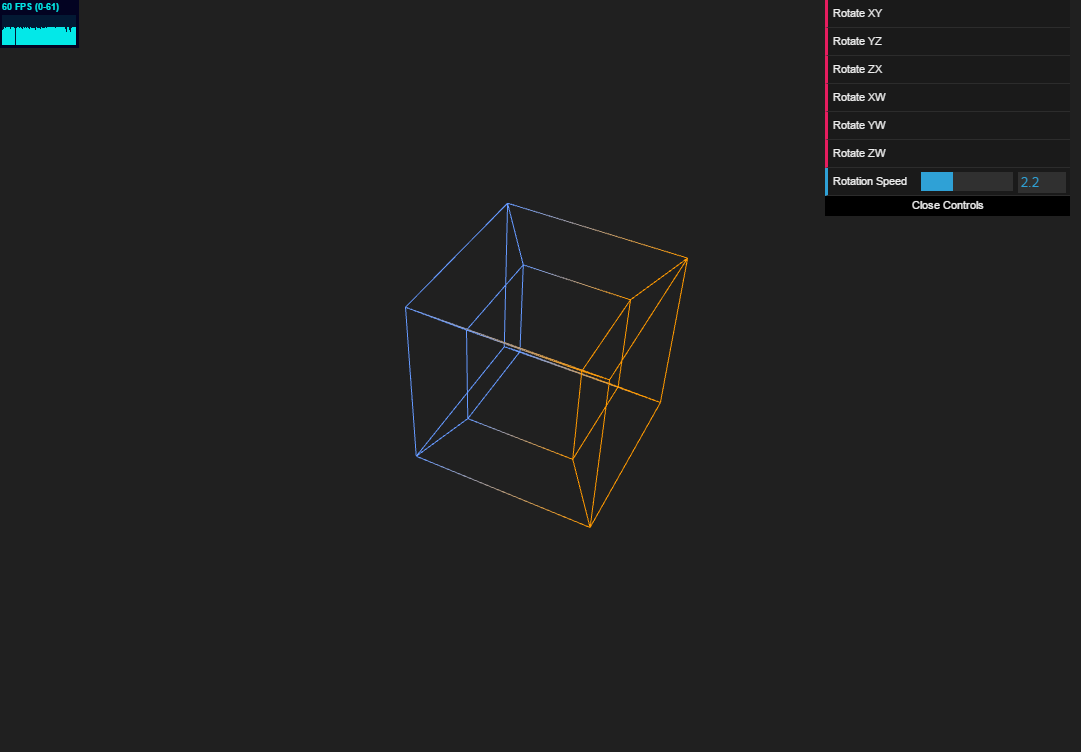
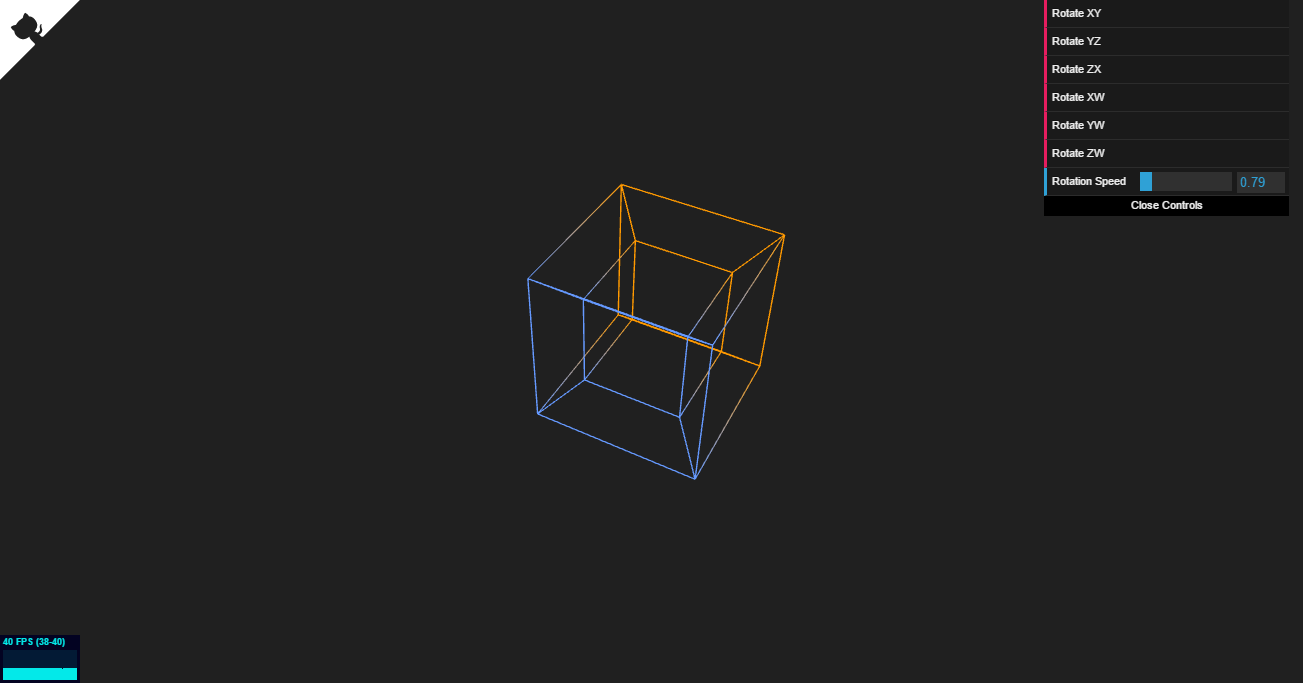
Add GitHub corner

diff --git a/hypercube.js b/hypercube.js
@@ -1,6 +1,6 @@
 'use strict';
 
-function Cube(gl) {
+function Hypercube(gl) {
   var self = this;
   if (!gl)
     throw 'Missing WebGL handle.';
@@ -15,7 +15,7 @@ function Cube(gl) {
   this.model4D = mat4.create();
 
   this.rotationFn = mat4.fromXWRotation;
-  this.rotationSpeed = Math.PI*0.5; // 0.5 turns per second.
+  this.rotationSpeed = 2*Math.PI / 8; // 1 full rotation every 8 seconds.
 
   // Add GUI controller.
   var controls = new function() {
@@ -33,15 +33,15 @@ function Cube(gl) {
   gui.add(controls, 'rotateXW').name('Rotate XW');
   gui.add(controls, 'rotateYW').name('Rotate YW');
   gui.add(controls, 'rotateZW').name('Rotate ZW');
-  gui.add(this, 'rotationSpeed', 0, Math.PI*2).name('Rotation Speed');
+  gui.add(this, 'rotationSpeed', 0, 2*Math.PI).name('Rotation Speed');
 }
 
-Cube.prototype.update = function(deltaSeconds) {
+Hypercube.prototype.update = function(deltaSeconds) {
   this.rotation += deltaSeconds*this.rotationSpeed;
   this.rotationFn(this.model4D, this.rotation);
 };
 
-Cube.prototype.render = function(camera) {
+Hypercube.prototype.render = function(camera) {
   // Set vertex buffer.
   this.gl.bindBuffer(this.gl.ARRAY_BUFFER, this.vertexBuffer);
   this.gl.vertexAttribPointer(this.shaderProgram.vertexPositionAttribute, this.vertexBuffer.itemSize, this.gl.FLOAT, false, 0, 0);
@@ -54,7 +54,7 @@ Cube.prototype.render = function(camera) {
   this.gl.bindBuffer(this.gl.ELEMENT_ARRAY_BUFFER, this.indexBuffer);
 
   // Set shader resources.
-  this.gl.uniform1f(this.shaderProgram.angle, Math.PI*0.25);
+  this.gl.uniform1f(this.shaderProgram.angle, Math.PI/4);
   this.gl.uniform4fv(this.shaderProgram.cameraPosition4D, camera.position4D);
 
   this.gl.uniformMatrix4fv(this.shaderProgram.model4D, false, this.model4D);
@@ -67,7 +67,7 @@ Cube.prototype.render = function(camera) {
   this.gl.drawElements(this.gl.LINES, this.indexBuffer.numItems, this.gl.UNSIGNED_SHORT, 0);
 };
 
-Cube.prototype._initializeBuffers = function() {
+Hypercube.prototype._initializeBuffers = function() {
   var vertices = [
     -1, -1, -1, -1,
     +1, +1, +1, +1,
@@ -169,15 +169,15 @@ Cube.prototype._initializeBuffers = function() {
   this.indexBuffer.numItems = indices.length;
 };
 
-Cube.prototype._initializeShaders = function() {
+Hypercube.prototype._initializeShaders = function() {
   // Build vertex shader.
   this.vertexShader = this.gl.createShader(this.gl.VERTEX_SHADER);
-  this.gl.shaderSource(this.vertexShader, Cube._shaders.vertex);
+  this.gl.shaderSource(this.vertexShader, Hypercube._shaders.vertex);
   this.gl.compileShader(this.vertexShader);
 
   // Build fragment shader.
   this.fragmentShader = this.gl.createShader(this.gl.FRAGMENT_SHADER);
-  this.gl.shaderSource(this.fragmentShader, Cube._shaders.fragment);
+  this.gl.shaderSource(this.fragmentShader, Hypercube._shaders.fragment);
   this.gl.compileShader(this.fragmentShader);
 
   this.shaderProgram = this.gl.createProgram();
@@ -209,7 +209,7 @@ Cube.prototype._initializeShaders = function() {
   return true;
 };
 
-Cube._shaders = {
+Hypercube._shaders = {
   vertex:
     'attribute vec4 aPosition4D; ' +
     'attribute vec4 aColor; ' +

diff --git a/index.html b/index.html
@@ -23,15 +23,18 @@
     Your browser doesn't appear to support the
     <code>&lt;canvas&gt;</code> element.
   </canvas>
+  
+  <!-- GitHub corner -->
+  <a href="https://github.com/discosultan/hyper" class="github-corner"><svg width="80" height="80" viewBox="0 0 250 250" style="fill:#fff; color:#202020; position: absolute; top: 0; border: 0; left: 0; transform: scale(-1, 1);"><path d="M0,0 L115,115 L130,115 L142,142 L250,250 L250,0 Z"></path><path d="M128.3,109.0 C113.8,99.7 119.0,89.6 119.0,89.6 C122.0,82.7 120.5,78.6 120.5,78.6 C119.2,72.0 123.4,76.3 123.4,76.3 C127.3,80.9 125.5,87.3 125.5,87.3 C122.9,97.6 130.6,101.9 134.4,103.2" fill="currentColor" style="transform-origin: 130px 106px;" class="octo-arm"></path><path d="M115.0,115.0 C114.9,115.1 118.7,116.5 119.8,115.4 L133.7,101.6 C136.9,99.2 139.9,98.4 142.2,98.6 C133.8,88.0 127.5,74.4 143.8,58.0 C148.5,53.4 154.0,51.2 159.7,51.0 C160.3,49.4 163.2,43.6 171.4,40.1 C171.4,40.1 176.1,42.5 178.8,56.2 C183.1,58.6 187.2,61.8 190.9,65.4 C194.5,69.0 197.7,73.2 200.1,77.6 C213.8,80.2 216.3,84.9 216.3,84.9 C212.7,93.1 206.9,96.0 205.4,96.6 C205.1,102.4 203.0,107.8 198.3,112.5 C181.9,128.9 168.3,122.5 157.7,114.1 C157.9,116.9 156.7,120.9 152.7,124.9 L141.0,136.5 C139.8,137.7 141.6,141.9 141.8,141.8 Z" fill="currentColor" class="octo-body"></path></svg></a><style>.github-corner:hover .octo-arm{animation:octocat-wave 560ms ease-in-out}@keyframes octocat-wave{0%,100%{transform:rotate(0)}20%,60%{transform:rotate(-25deg)}40%,80%{transform:rotate(10deg)}}@media (max-width:500px){.github-corner:hover .octo-arm{animation:none}.github-corner .octo-arm{animation:octocat-wave 560ms ease-in-out}}</style>
 
   <!-- Third party libraries -->
   <script src="vendor/gl-matrix-min.js"></script><!--  matrix and vector library -->
   <script src="vendor/stats.min.js"></script><!-- FPS counter -->
   <script src="vendor/dat.gui.min.js"></script><!-- controller library -->
   <!-- App -->
-  <script src="math.js?v=1"></script>
-  <script src="hypercube.js?v=1"></script>
-  <script src="app.js?v=1"></script>
+  <script src="math.js?v=2"></script>
+  <script src="hypercube.js?v=2"></script>
+  <script src="app.js?v=2"></script>
   <script>
   (function() {
     // Get ahold of canvas element.

diff --git a/app.js b/app.js
@@ -22,10 +22,7 @@ function App(canvas) {
     up4D: vec4.create(),
     over4D: vec4.create(),
     view4D: mat4.create(),
-  };
-  // vec3.set(this.camera.position, 0, 5, 10);
-  // vec3.set(this.camera.up, 0, 1, 0);
-  // vec3.set(this.camera.target, 0, 0, 0);
+  };  
   vec3.set(this.camera.position, 4.147724, -4.964352, -3.691729);
   vec3.set(this.camera.up, -0.5506194, -0.7322351, 0.4007882);
   vec3.set(this.camera.target, 3.596415, -4.284839, -3.20768);
@@ -43,17 +40,16 @@ function App(canvas) {
 
   this.gl.enable(this.gl.DEPTH_TEST); // Enable depth testing
   this.gl.depthFunc(this.gl.LEQUAL); // Near things obscure far things
-  this.gl.disable(this.gl.CULL_FACE); // Disable culling
-  // this.gl.cullFace(this.gl.BACK);
+  this.gl.disable(this.gl.CULL_FACE); // Disable culling  
 
-  this.cube = new Cube(this.gl);
+  this.cube = new Hypercube(this.gl);
 
   // Add FPS counter.		
   this.stats = new Stats();
   this.stats.setMode(0);
   this.stats.domElement.style.position = 'absolute';
   this.stats.domElement.style.left = '0px';
-  this.stats.domElement.style.top = '0px';  
+  this.stats.domElement.style.bottom = '0px';  
   this.canvas.parentNode.insertBefore(this.stats.domElement, this.canvas.nextSibling);
   
   window.requestAnimationFrame(this._tick.bind(this));
